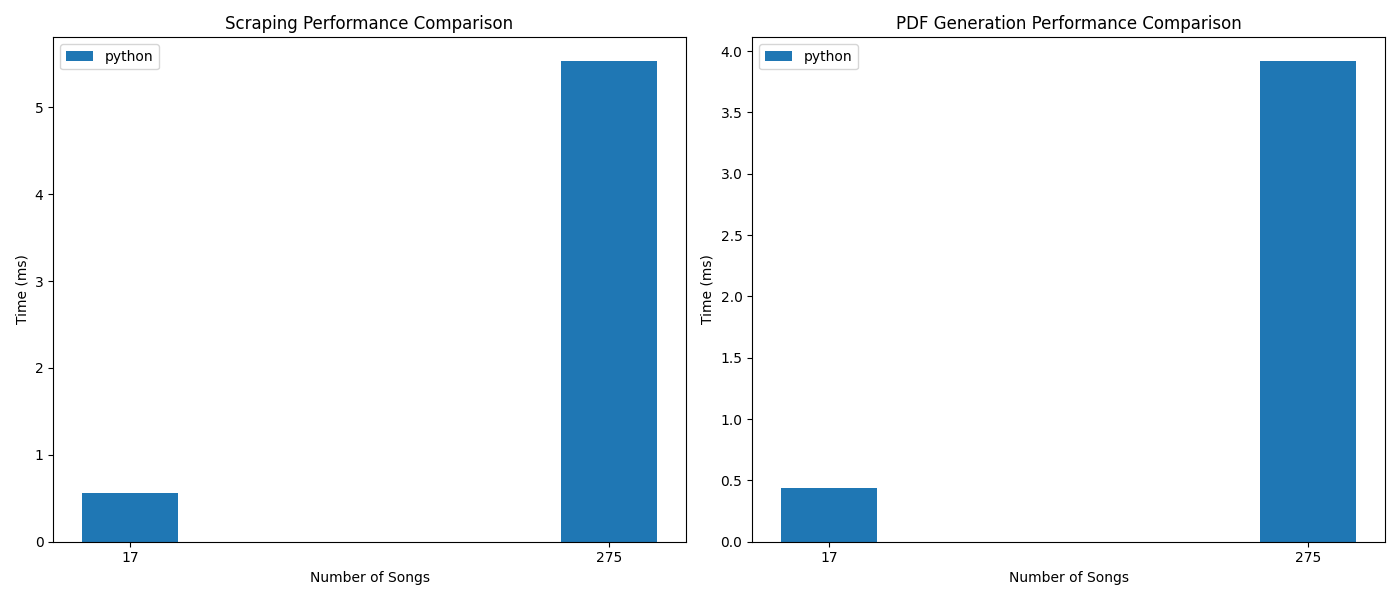
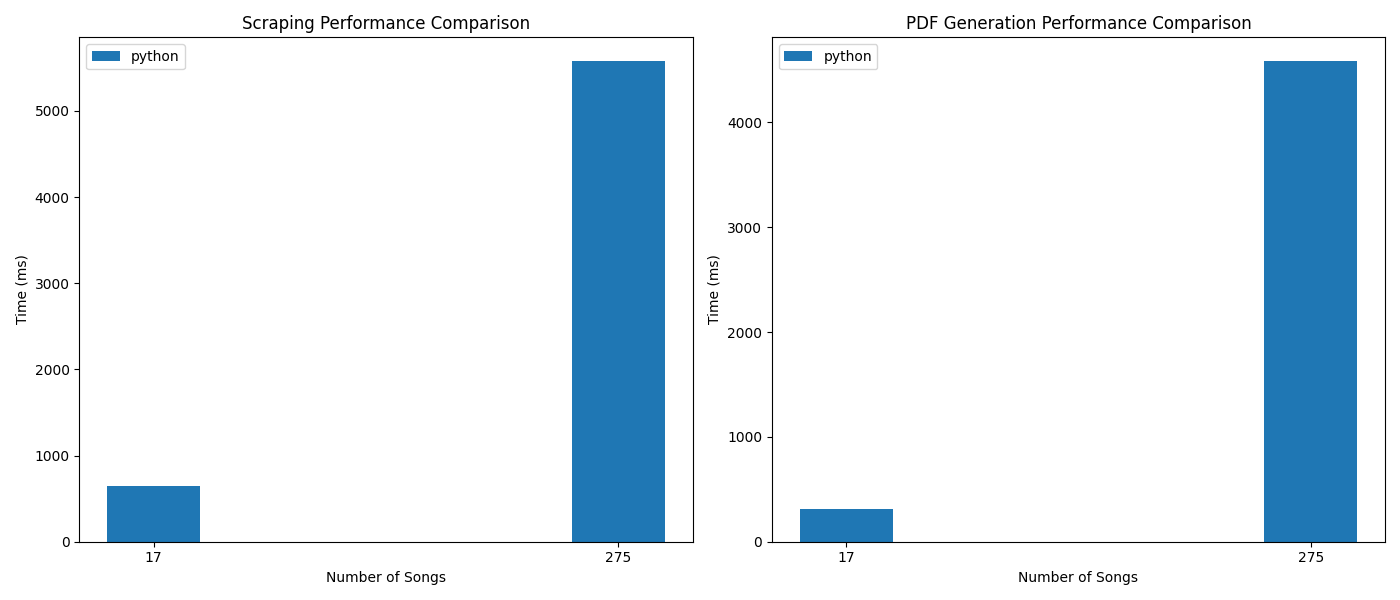
dockerfiles and scripts

diff --git a/languages/typescript/benchmark.ts b/languages/typescript/benchmark.ts
@@ -1,4 +1,5 @@
 import { scrapeAndGenerate } from "./src/services";
+import fs from "fs";
 
 function parseAsJson(obj: object) {
   return JSON.stringify(obj, null, 2);
@@ -6,10 +7,12 @@ function parseAsJson(obj: object) {
 
 export default async function benchmark() {
   const resultTiny = await scrapeAndGenerate("tiny", "https://www.cifraclub.com/musico/551928421/repertorio/12409416/");
-  console.log(parseAsJson(resultTiny));
-
   const resultLarge = await scrapeAndGenerate("large", "https://www.cifraclub.com/musico/551928421/repertorio/favoritas/");
-  console.log(resultLarge);
+
+  fs.writeFileSync("benchmarks.json", parseAsJson([
+    resultTiny,
+    resultLarge
+  ]));
 }
 
 benchmark().then(() => console.log(""));

diff --git a/languages/typescript/src/pdf.ts b/languages/typescript/src/pdf.ts
@@ -1,7 +1,9 @@
 import puppeteer from 'puppeteer';
 
 export async function htmlToPdf(html: string, pdfPath: string) {
-    const browser = await puppeteer.launch();
+    const browser = await puppeteer.launch({
+        args: ['--no-sandbox', '--disable-setuid-sandbox'],
+    });
     const page = await browser.newPage();
     await page.setContent(html);
     await page.pdf({ path: pdfPath, format: 'A4' });

diff --git a/benchmark.py b/benchmark.py
@@ -59,7 +59,7 @@ def plot_benchmark_comparison(benchmarks: List[Benchmark], filepath: str) -> Non
     plt.tight_layout()
     plt.savefig(filepath)
 
-def extract_json_from_string(input_string):
+def extract_json_from_string(input_string: str):
     json_pattern = r'\{.*?\}'
 
     json_strings = re.findall(json_pattern, input_string)
@@ -77,11 +77,10 @@ def extract_json_from_string(input_string):
 def get_benchmarks():
     folders = list(filter(lambda x: os.path.isdir(x), os.listdir('languages')))
     benchmarks: list[Benchmark] = []
-    for language in ["python"]:
-        subprocess.run(f"cd languages/{language} && docker build -t {language}_benchmark . && docker run {language}_benchmark", shell=True)
-        results = json.load(open(f"languages/{language}/benchmarks.json", "r"))
+    for language in ["python", "typescript"]:
+        subprocess.run(f"cd languages/{language} && chmod +x run_benchmark.sh && bash run_benchmark.sh", shell=True)
+        results = json.load(open(f"languages/{language}/benchmarks.json"))
         for benchmark_result in results:
-            print(benchmark_result)
             benchmark = Benchmark(language, benchmark_result['total_songs'], benchmark_result['scrape_time'], benchmark_result['pdf_generate_time'])
             benchmarks.append(benchmark)
     return benchmarks

diff --git a/languages/python/benchmark.py b/languages/python/benchmark.py
@@ -1,8 +1,24 @@
 import json
 import time
+import re
 
 from pdf import html_to_pdf
 from scraper import Scraper
+
+def extract_json_from_string(input_string):
+    json_pattern = r'\{.*?\}'
+
+    json_strings = re.findall(json_pattern, input_string)
+
+    json_objects = []
+    for json_string in json_strings:
+        try:
+            json_object = json.loads(json_string)
+            json_objects.append(json_object)
+        except json.JSONDecodeError:
+            continue
+
+    return json_objects
 
 def benchmark():
     urls = [
